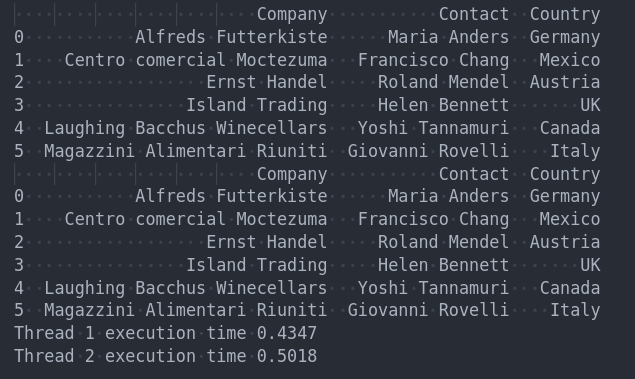
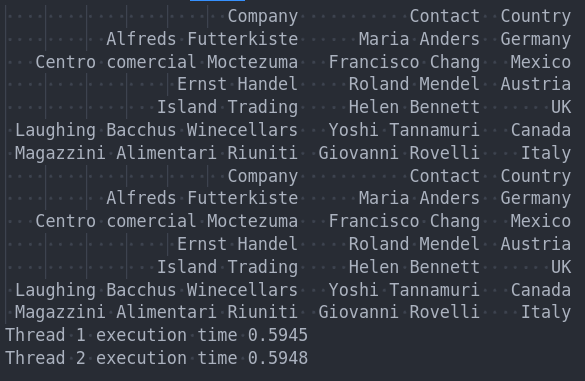
upd site_parser

diff --git a/site_parser.py b/site_parser.py
@@ -5,24 +5,22 @@ import pandas as pd
 
 
 #  Parse a site to search and display a given table
-#  return 0 if all ok, 1 if given table not find, 2 if some problem with site
+#  return DataFrame if all ok, None otherwise
 #  example print_table('https://www.w3schools.com/html/html_tables.asp', 'ws-table-all')
 def print_table(site_url, table_class_name):
-
     # Get a plane text of site page
     try:
         response = requests.get(site_url)
     except:
         print(f'Some problem with the site "{site_url}"')
-        return 2
+        return None
     soup = BeautifulSoup(response.text, 'html.parser')
 
     # Search given table  by tag 'class:'
     table = soup.find('table', attrs={'class': table_class_name})
-
     if table == None:
         print(f'Table "{table_class_name}" not find')
-        return 1
+        return None
 
     # Get a header from table and create DataFrame
     header = []
@@ -37,5 +35,5 @@ def print_table(site_url, table_class_name):
         length = len(df)
         df.loc[length] = row
 
-    print(df)
-    return 0
+    print(df.to_string(index=None))
+    return df
